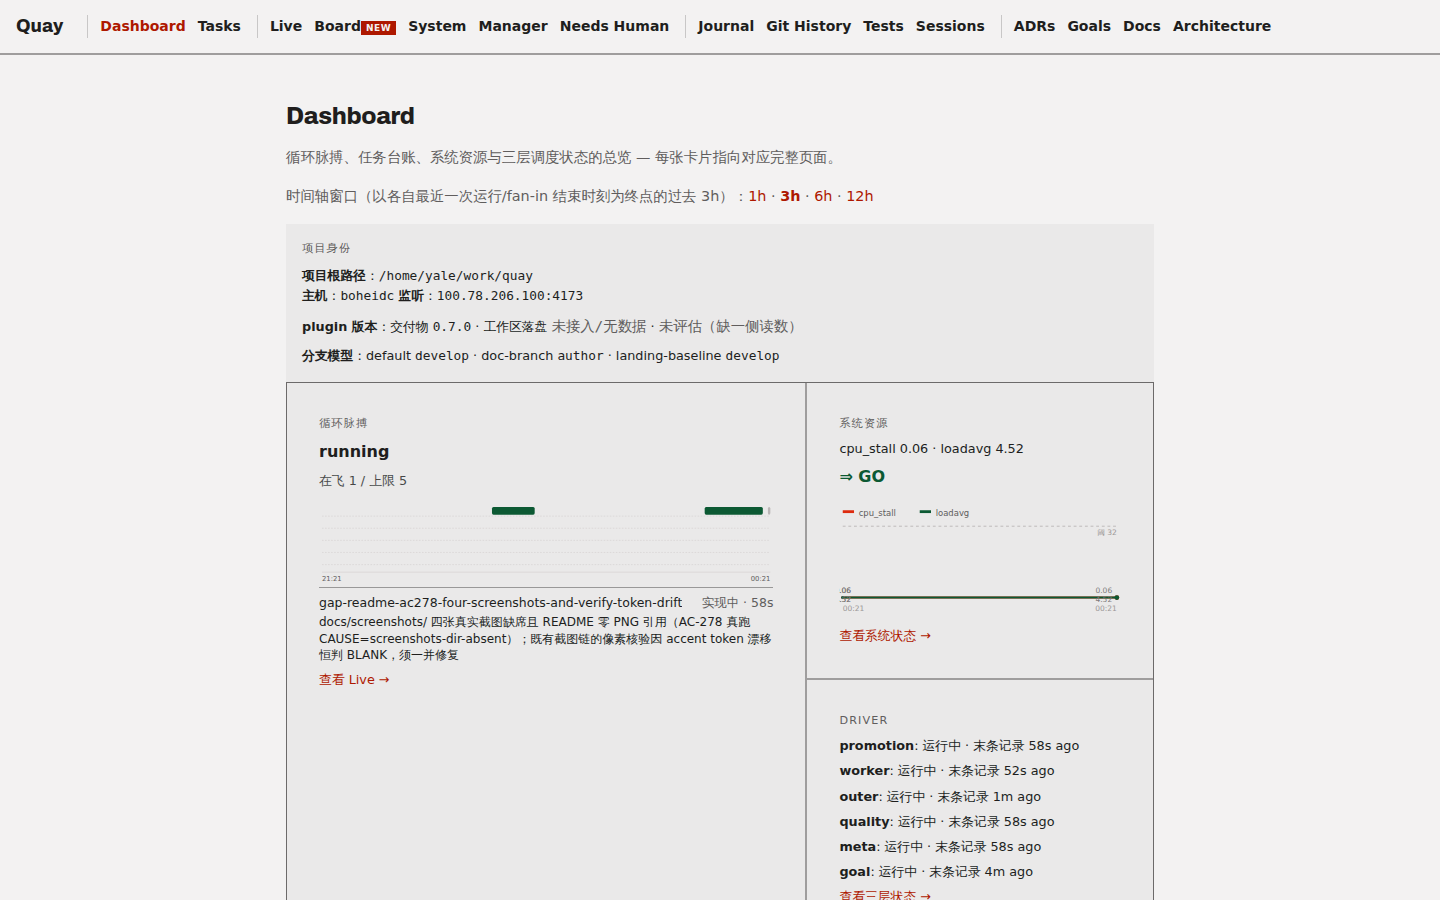
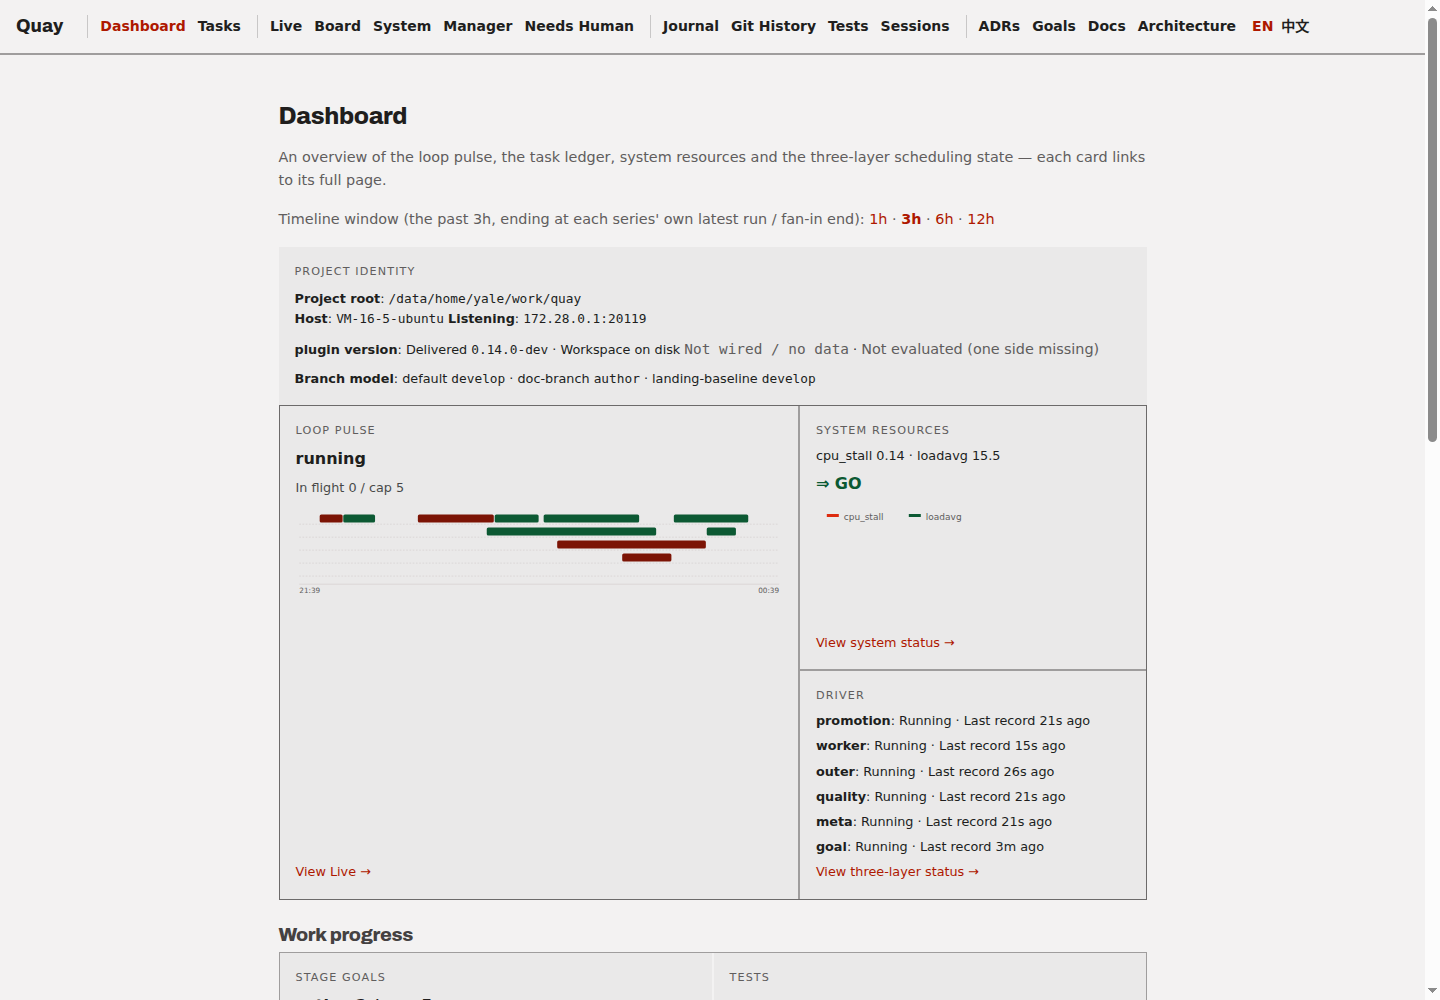
docs(readme): visual, high-throughput-led front door
Restructures the top of README.md per the visual-README review: a tightened
one-sentence positioning (explicitly naming high-throughput development as
quay's distinguishing trait, per human direction), a hero screenshot, a
"What you can do with quay" scenario list, a small "See it in action"
gallery, and a new "Quay in practice" section.

Screenshots are fresh captures, not reused assets:
- docs/screenshots/sample-tasks.png / sample-task-detail.png: the bundled
  English sample workspace (packages/quay-native/examples/sample-workspace),
  captured on an isolated port against its own tasks/ dir — clean, no
  jargon, no this-repo-specific history. The previous "hero" candidates
  (the old dashboard.png/git-history.png) had nav chrome in English but
  hardcoded Chinese body copy, which is wrong for a first-time-visitor lead
  image.
- docs/screenshots/dashboard.png / git-history.png / architecture.png: fresh
  captures against the live production server (read-only GET requests, no
  restart), which turned out to already render fully in English — the
  body-copy localization the earlier review flagged as incomplete has since
  landed for these three pages. Supersedes the 2026-09-17 captures.
- docs/screenshots/goals.png / task-detail.png are unchanged (this repo's
  own live, primarily Chinese-language backlog) and now carry an honest
  caption saying so, rather than being presented as English.

"Quay in practice" states quay's own git-measured throughput (27,008
[…]

diff --git a/README.md b/README.md
@@ -1,30 +1,94 @@
 # quay
 
-`quay` is itself a **software engineering agent** — the same category of system as
-Claude Code or Codex, not a task-board framework, a wire protocol, or an editor
-plug-in. Given a goal, it decomposes the goal into tasks, dispatches workers to
-implement them, judges each result against runnable acceptance criteria, and lands
-the ones that pass.
+**`quay` is a software engineering agent whose distinguishing trait is high-throughput
+development: it decomposes a goal into tasks, dispatches workers to implement them in
+parallel, judges each result against runnable acceptance criteria, and lands the ones
+that pass — continuously, unattended.**
 
-What `quay` runs *on* is **Claude Code**, and that relation is intrinsic rather than
-optional: Claude Code is the **infrastructure** underneath `quay` in the same sense
-that an operating system is the infrastructure underneath the programs running on
-it. `quay` consumes the LLM inference, tool invocation, and subagent dispatch that
-Claude Code provides, and builds the task model, the lifecycle gates, and the driver
-loop on top of them. The direction is one-way: Claude Code is the ground `quay`
-stands on, not an artifact `quay` produces.
+![quay's own dashboard, mid-run: six driver roles live, loop pulse timeline, system resources](docs/screenshots/dashboard.png)
 
-Concretely, the surface `quay` exposes is a provider-agnostic task board: a small
-**Core** CLI/MCP client plus a pluggable **Provider ABI** for where tasks
-actually live. A task can be stored as local markdown+frontmatter files, mirrored
-to GitHub Issues, or (in principle) backed by any other tracker that implements
-the same ABI — `quay` Core doesn't know or care which.
+*A real capture of `quay serve`, taken while this repository's own backlog was being driven
+by the loop described below — not a mockup.*
 
-This repository is also the live workspace for a BAIME (Bootstrapped AI
-Methodology Engineering) research experiment in which `quay-native`'s own
-development backlog is driven, progressively, by `quay-native` itself. See
-[**docs/proposals/**](docs/proposals/) below if you want that deeper story —
-it is not required reading to install or use `quay`.
+`quay` is the same category of system as Claude Code or Codex, not a task-board framework,
+a wire protocol, or an editor plug-in. What it runs *on* is **Claude Code**: Claude Code is
+the infrastructure underneath `quay` in the same sense an operating system is infrastructure
+underneath the programs running on it — `quay` consumes the LLM inference, tool invocation,
+and subagent dispatch Claude Code provides, and builds the task model, lifecycle gates, and
+driver loop on top. The direction is one-way: Claude Code is the ground `quay` stands on, not
+an artifact `quay` produces.
+
+Concretely, the surface `quay` exposes is a provider-agnostic task board: a small **Core**
+CLI/MCP client plus a pluggable **Provider ABI** for where tasks actually live. A task can be
+stored as local markdown+frontmatter files, mirrored to GitHub Issues, or (in principle)
+backed by any other tracker that implements the same ABI — `quay` Core doesn't know or care
+which.
+
+This repository is also the live workspace for a BAIME (Bootstrapped AI Methodology
+Engineering) research experiment in which `quay-native`'s own development backlog is driven,
+progressively, by `quay-native` itself — see [**"Quay in practice"**](#quay-in-practice)
+below for what that has actually produced, and [**docs/proposals/**](docs/proposals/) for the
+deeper research story. Neither is required reading to install or use `quay`.
+
+## What you can do with quay
+
+- **Point it at a messy backlog and get a gated, prioritized task board.** Every task carries
+  a `## Proposal` / `## Plan` / `## Acceptance Criteria` / `## Definition of Done` body; a task
+  can't advance `todo → ready → done` without the gate for that transition actually passing.
+- **Let it run unattended against your repo's own `tasks/*.md`.** `quay driver start --kind
+  promotion` and `--kind worker` are resident processes: promotion advances `todo → ready`,
+  worker isolates each `ready` task in its own git worktree, implements it, and lands it —
+  while you do something else.
+- **Swap the backend without touching your workflow.** The same task view-model (id, status,
+  role, labels, Proposal/Plan/AC/DoD body) is implemented today by a local markdown+frontmatter
+  store (`quay-native`) and by GitHub Issues (`quay-github`) — proving the Provider ABI
+  transfers to a second, real backend rather than being a one-off local format.
+- **Watch it work from a real web UI**, not just a CLI — the dashboard, task board, git-landing
+  timeline, and architecture map below are the same four screenshots away.
+
+## See it in action
+
+A clean install starts from the small bundled sample workspace (5 illustrative tasks, no
+experiment history) — not this repository's own ~2,200-task backlog:
+
+![Task board over the bundled sample workspace: one epic with two children, two standalone tasks](docs/screenshots/sample-tasks.png)
+
+![A task's detail page — Proposal / Plan / Acceptance Criteria / Definition of Done, with AC checkboxes reflecting a real gate check](docs/screenshots/sample-task-detail.png)
+
+The architecture view renders the Provider ABI directly from this repo's own `packages/*` and
+git history — not a hand-drawn diagram:
+
+![quay's own /architecture page: Core, web-ui, and provider-abi fanning out to the native and GitHub providers, colored by recent git activity](docs/screenshots/architecture.png)
+
+## Quay in practice
+
+**Built at high throughput.**
+
+Every number below is a direct `git log` measurement against a real repository on the date
+shown, not an estimate. Two case studies:
+
+| | **quay itself** (dogfooding) | **CloudCLI** (`@yalehwang/cloudcli`, aka "Claude Code UI") |
+|---|---|---|
+| What it is | This repository's own backlog, driven by its own loop | A real, independent product — a web UI for Claude Code/Cursor CLI/Codex — [forked](https://github.com/yaleh/claudecodeui) and quay-driven since 2026-09-19 |
+| Window measured | 2026-07-15 → 2026-10-07 (84 days) | 2026-09-19 → 2026-10-07 (18 days since the fork point, commit `fd424f3f`) |
+| Commits | 27,008 total (~322/day average; peak day 2,833) | 5,548 since the fork (4,136 non-merge); ~308/day average |
+| Scope landed | +182k / −36k lines across 600 files in `packages/` alone | 1,892 files changed, +411k / −7.5k lines |
+| Task-branch landings | 5,110 isolated-worktree task branches merged via mechanical fan-in | 455 tasks tracked under `tasks/`; 1,551 `task_write` commits, 450 mechanical fan-in merges |
+| Release cadence | 32 tags, v0.2.0 → v0.16.0, over 84 days | Its own tag series (`v1.37.3` → `v1.38.2`) continuing post-fork |
+
+CloudCLI is a second, independently-verifiable data point, not an anecdote: it's a real fork of
+[`siteboon/claudecodeui`](https://github.com/siteboon/claudecodeui), published to npm, with its
+own git history anyone can inspect. Its own README additionally self-reports (not independently
+re-measured here) a representative set of complex features landed in this window — a resident
+long-lived-session architecture with a host/lease layer and systemd-scoped memory caps, a
+pluggable voice-input recognizer registry, and a responsive composer/chat redesign.
+
+![quay's own git-history view: a dense, continuous stream of isolated task branches forking from and fan-in-merging back into develop](docs/screenshots/git-history.png)
+
+quay's own live commit-count-over-time statistics (tasks done, scripts shipped, goals tracked)
+are kept current automatically — see [**Development process
+statistics**](#development-process-statistics) below, regenerated from this repo's own tracked
+history rather than hand-maintained.
 
 ## The three packages
 
@@ -722,21 +786,20 @@ a single MCP endpoint for an agent (e.g. Claude Code) to register once.
 
 ### Web UI
 
-`quay serve` renders the board as server-rendered HTML (no client framework
-and no build step). The four screenshots below are real captures of a live
-dev-tree `quay serve` at 1440×900 — dashboard, goals, task detail, and the
-commit timeline:
+`quay serve` renders the board as server-rendered HTML (no client framework and no build
+step). The dashboard, sample task board/detail, git-history, and architecture screenshots
+near the top of this README are all real captures of a live dev-tree `quay serve` at
+1440×900 — see ["See it in action"](#see-it-in-action) and ["Quay in practice"](#quay-in-practice)
+above. Two more views, captured against this repository's own live backlog (primarily
+Chinese-language task/goal titles, since that's this project's own working language —
+shown here deliberately rather than cropped out):
 
-![quay web UI — the dashboard: loop pulse, task ledger, system resources and three-layer status](docs/screenshots/dashboard.png)
+![quay web UI — goals and their acceptance criteria, this repo's own live board](docs/screenshots/goals.png)
 
-![quay web UI — goals and their acceptance criteria](docs/screenshots/goals.png)
+![quay web UI — a single task's detail page, this repo's own live board](docs/screenshots/task-detail.png)
 
-![quay web UI — a single task's detail page](docs/screenshots/task-detail.png)
-
-![quay web UI — git history: the commit-landing timeline](docs/screenshots/git-history.png)
-
-Reproduce them against a running server with `docs/capture-webui-screenshots.sh`,
-and pixel-verify any capture with `docs/verify-webui-screenshot.mjs`.
+Reproduce any of these against a running server with `docs/capture-webui-screenshots.sh`,
+and pixel-verify a capture with `docs/verify-webui-screenshot.mjs`.
 
 ### Driver processes (`quay driver`)
 
